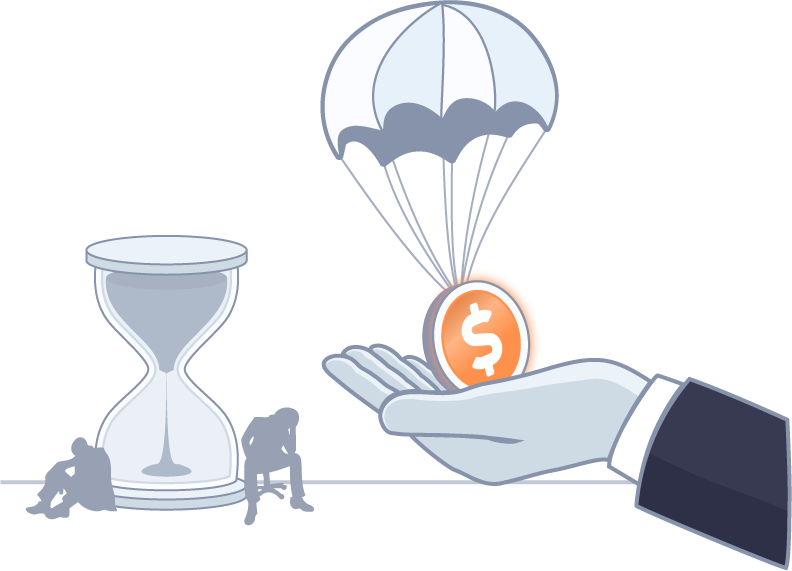
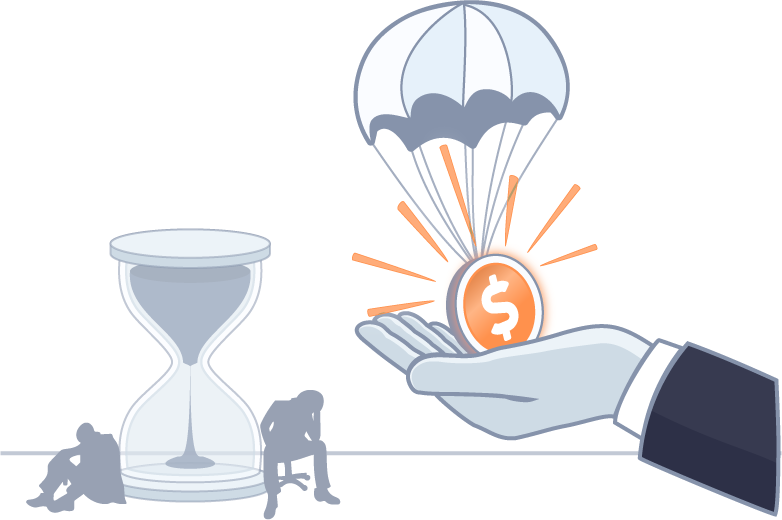
payout fast image

diff --git a/layouts/index.html b/layouts/index.html
@@ -170,20 +170,21 @@
 </section>
 
 <!-- Game Changing Approach -->
-<section class="hero is-medium">
+<section id="game-changing" class="hero is-medium">
   <div class="hero-body">
-    <div class="container add-padding has-text-centered-mobile">
-      <h2 class="title has-text-centered add-padding-bottom">Our game-changing approach</h2>
-
+    <div class="container add-padding has-text-centered-touch">
+      <h2 class="title has-text-centered add-padding-bottom">
+        Our game-changing approach
+      </h2>
       <!-- We Pay Out Fast -->
       <div class="columns add-padding is-desktop is-vcentered">
         <!-- Shown on mobile only -->
         <div class="column is-hidden-desktop">
           <figure class="image add-padding">
-            <!-- <img src="/images/payout_fast2.png" alt="We make it payouts fast."> -->
+            <img src="/images/payout_fast.png" alt="We make it payouts fast.">
           </figure>
-        </div>
-        <div class="column">
+        </div><!-- end of .is-hidden-desktop -->
+        <div class="column is-half-desktop">
           <h3 class="title">We payout fast</h3>
           <p class="is-marginless">
             Have you ever had to file and wait on an insurance claim
@@ -202,14 +203,14 @@
           </div>
           <!-- Hidden on mobile -->
           <div class="column is-hidden-touch">
-            <figure class="image add-padding">
-              <!-- <img src="/images/payout_fast2.png" alt="We make it payouts fast."> -->
+            <figure class="image add-padding is-pulled-right">
+              <img src="/images/payout_fast.png" alt="We make it payouts fast.">
             </figure>
-          </div>
-        </div><!-- end of .columns -->
+          </div><!-- end of .is-hidden-touch -->
+      </div><!-- end of .columns -->
 
         <!-- We Make It Easy To Understand -->
-        <div class="columns add-padding is-desktop is-vcentered">
+      <div class="columns add-padding is-desktop is-vcentered">
           <div class="column">
             <figure class="image is-3by2">
               <!-- <img src="https://bulma.io/images/placeholders/1280x960.png" alt="Placeholder image"> -->
@@ -229,7 +230,7 @@
             needs when your website is down.
             </p>
           </div>
-        </div><!-- end of .columns -->
+      </div><!-- end of .columns -->
 
       <!-- We Have Your Back -->
       <div class="columns add-padding is-desktop is-vcentered">
@@ -238,7 +239,7 @@
           <figure class="image">
             <img src="/images/notification.png" alt="CyberFortress downtime notification">
           </figure>
-        </div>
+        </div><!--end of .is-hidden-desktop -->
         <div class="column">
           <h3 class="title">We are on your side</h3>
           <p>
@@ -255,10 +256,10 @@
           </div>
           <!-- Hidden on mobile -->
           <div class="column is-hidden-touch">
-            <figure class="image">
+            <figure class="image is-pulled-right">
               <img src="/images/notification.png" alt="CyberFortress downtime notification">
             </figure>
-          </div>
+          </div><!-- end of .is-hidden-touch -->
 
       </div><!-- end of .columns -->
 
@@ -296,25 +297,6 @@
     </div>
 
 </section>
-
-<!-- Customer Testimonials -->
-<!-- <section class="add-padding has-text-centered">
-  <div class="container add-padding">
-    <h2 class="title add-padding">What our customers have to say</h2>
-    <feature class="image is-5by3">
-      <img src="https://bulma.io/images/placeholders/800x480.png" />
-    </feature>
-  </div>
-  <div class="container add-padding">
-    <h4 class="title add-padding-top">Stay ahead as a customer, too.</h4>
-    <p class="subtitle">
-      From quote to policy in 5 minutes or less.
-    </p>
-    <a class="button is-primary is-large">
-      Get A Quote
-    </a>
-  </div>
-</section> -->
 
 <!-- Bottom Banner -->
 <section id="main-bottom-banner" class="banner is-gray">

diff --git a/assets/custom.scss b/assets/custom.scss
@@ -289,6 +289,10 @@ img.placeholder {
 
 nav.navbar {
 
+  div.container {
+    padding: 1em !important;
+  }
+
   .navbar-start, .navbar-end {
     .navbar-item {
       // font-size: 1.25em;
@@ -455,7 +459,7 @@ section {
 } // end of feature.image
 
 div.container {
-  padding: 1em;
+  padding: 2em;
 }
 
 div.box {
@@ -553,6 +557,14 @@ div.box {
   background-size: auto;
 }
 
+.background-bottom {
+  background-image: url('/images/hero_background1.png');
+  background-position: center bottom;
+  background-repeat: no-repeat;
+  background-attachment: scroll;
+  background-size: auto;
+}
+
 #main-hero {
   background-image: url('/images/hero_background1.png');
   background-position: center bottom;
@@ -570,6 +582,15 @@ div.box {
   img {
     max-height: 470px;
     width: auto;
+  }
+}
+
+#game-changing {
+  .image {
+    img {
+      max-width: 550px;
+      margin: 10px auto;
+    }
   }
 }
 
